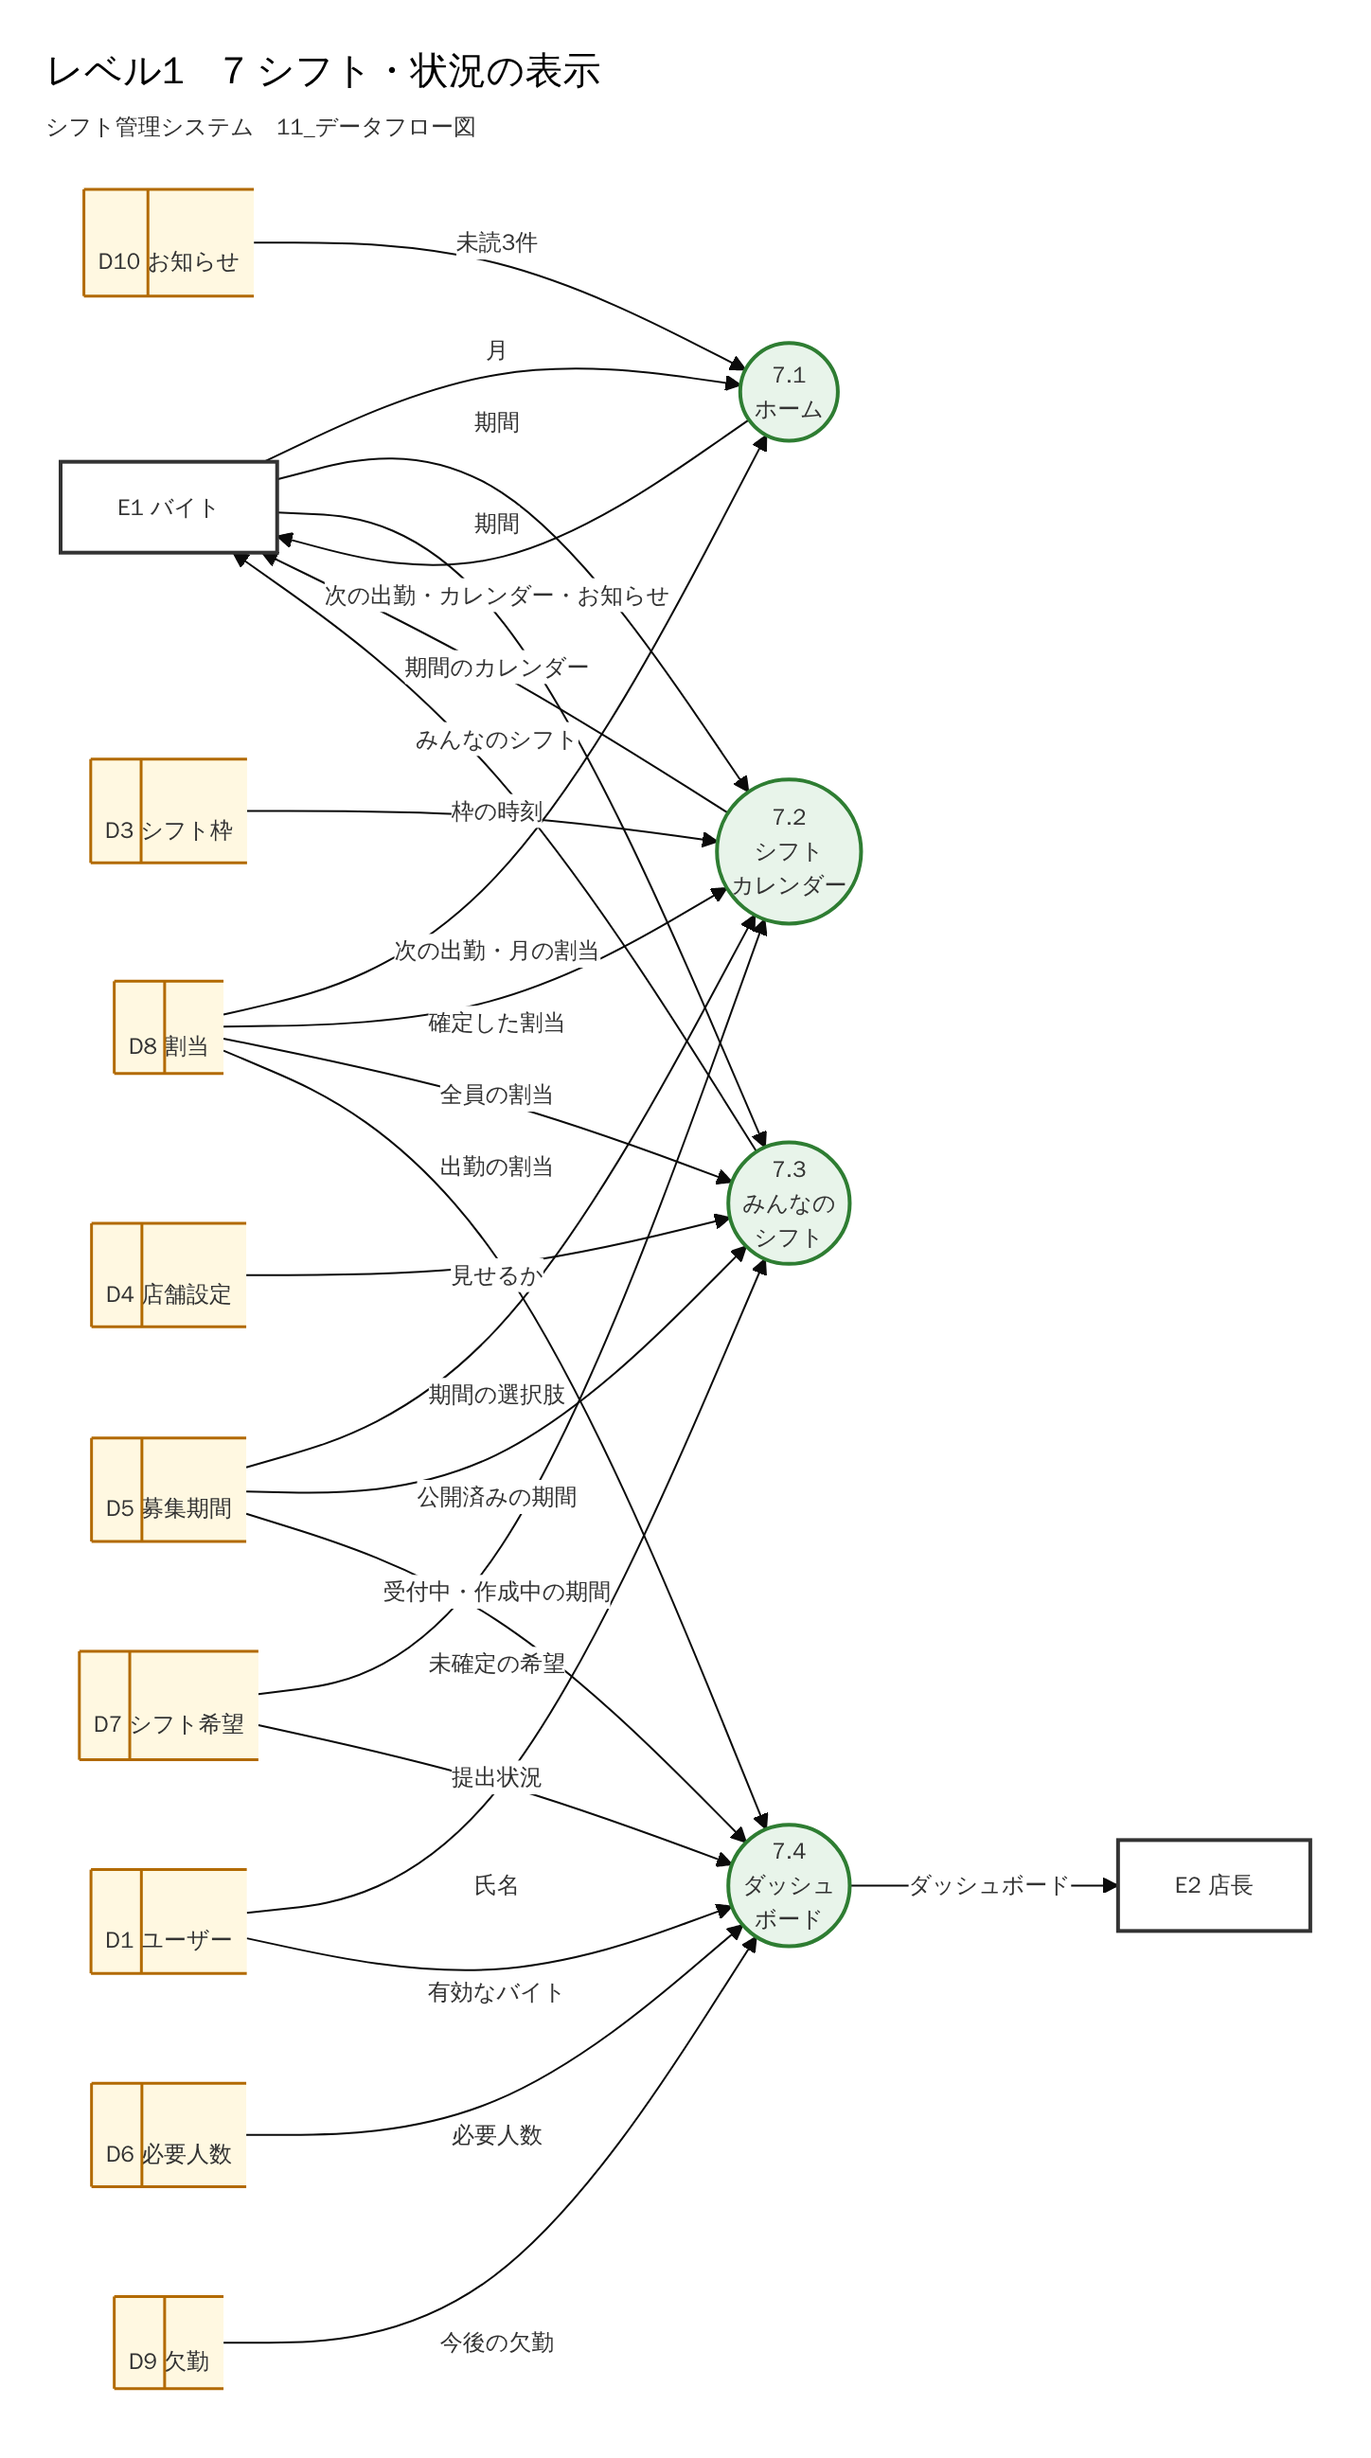
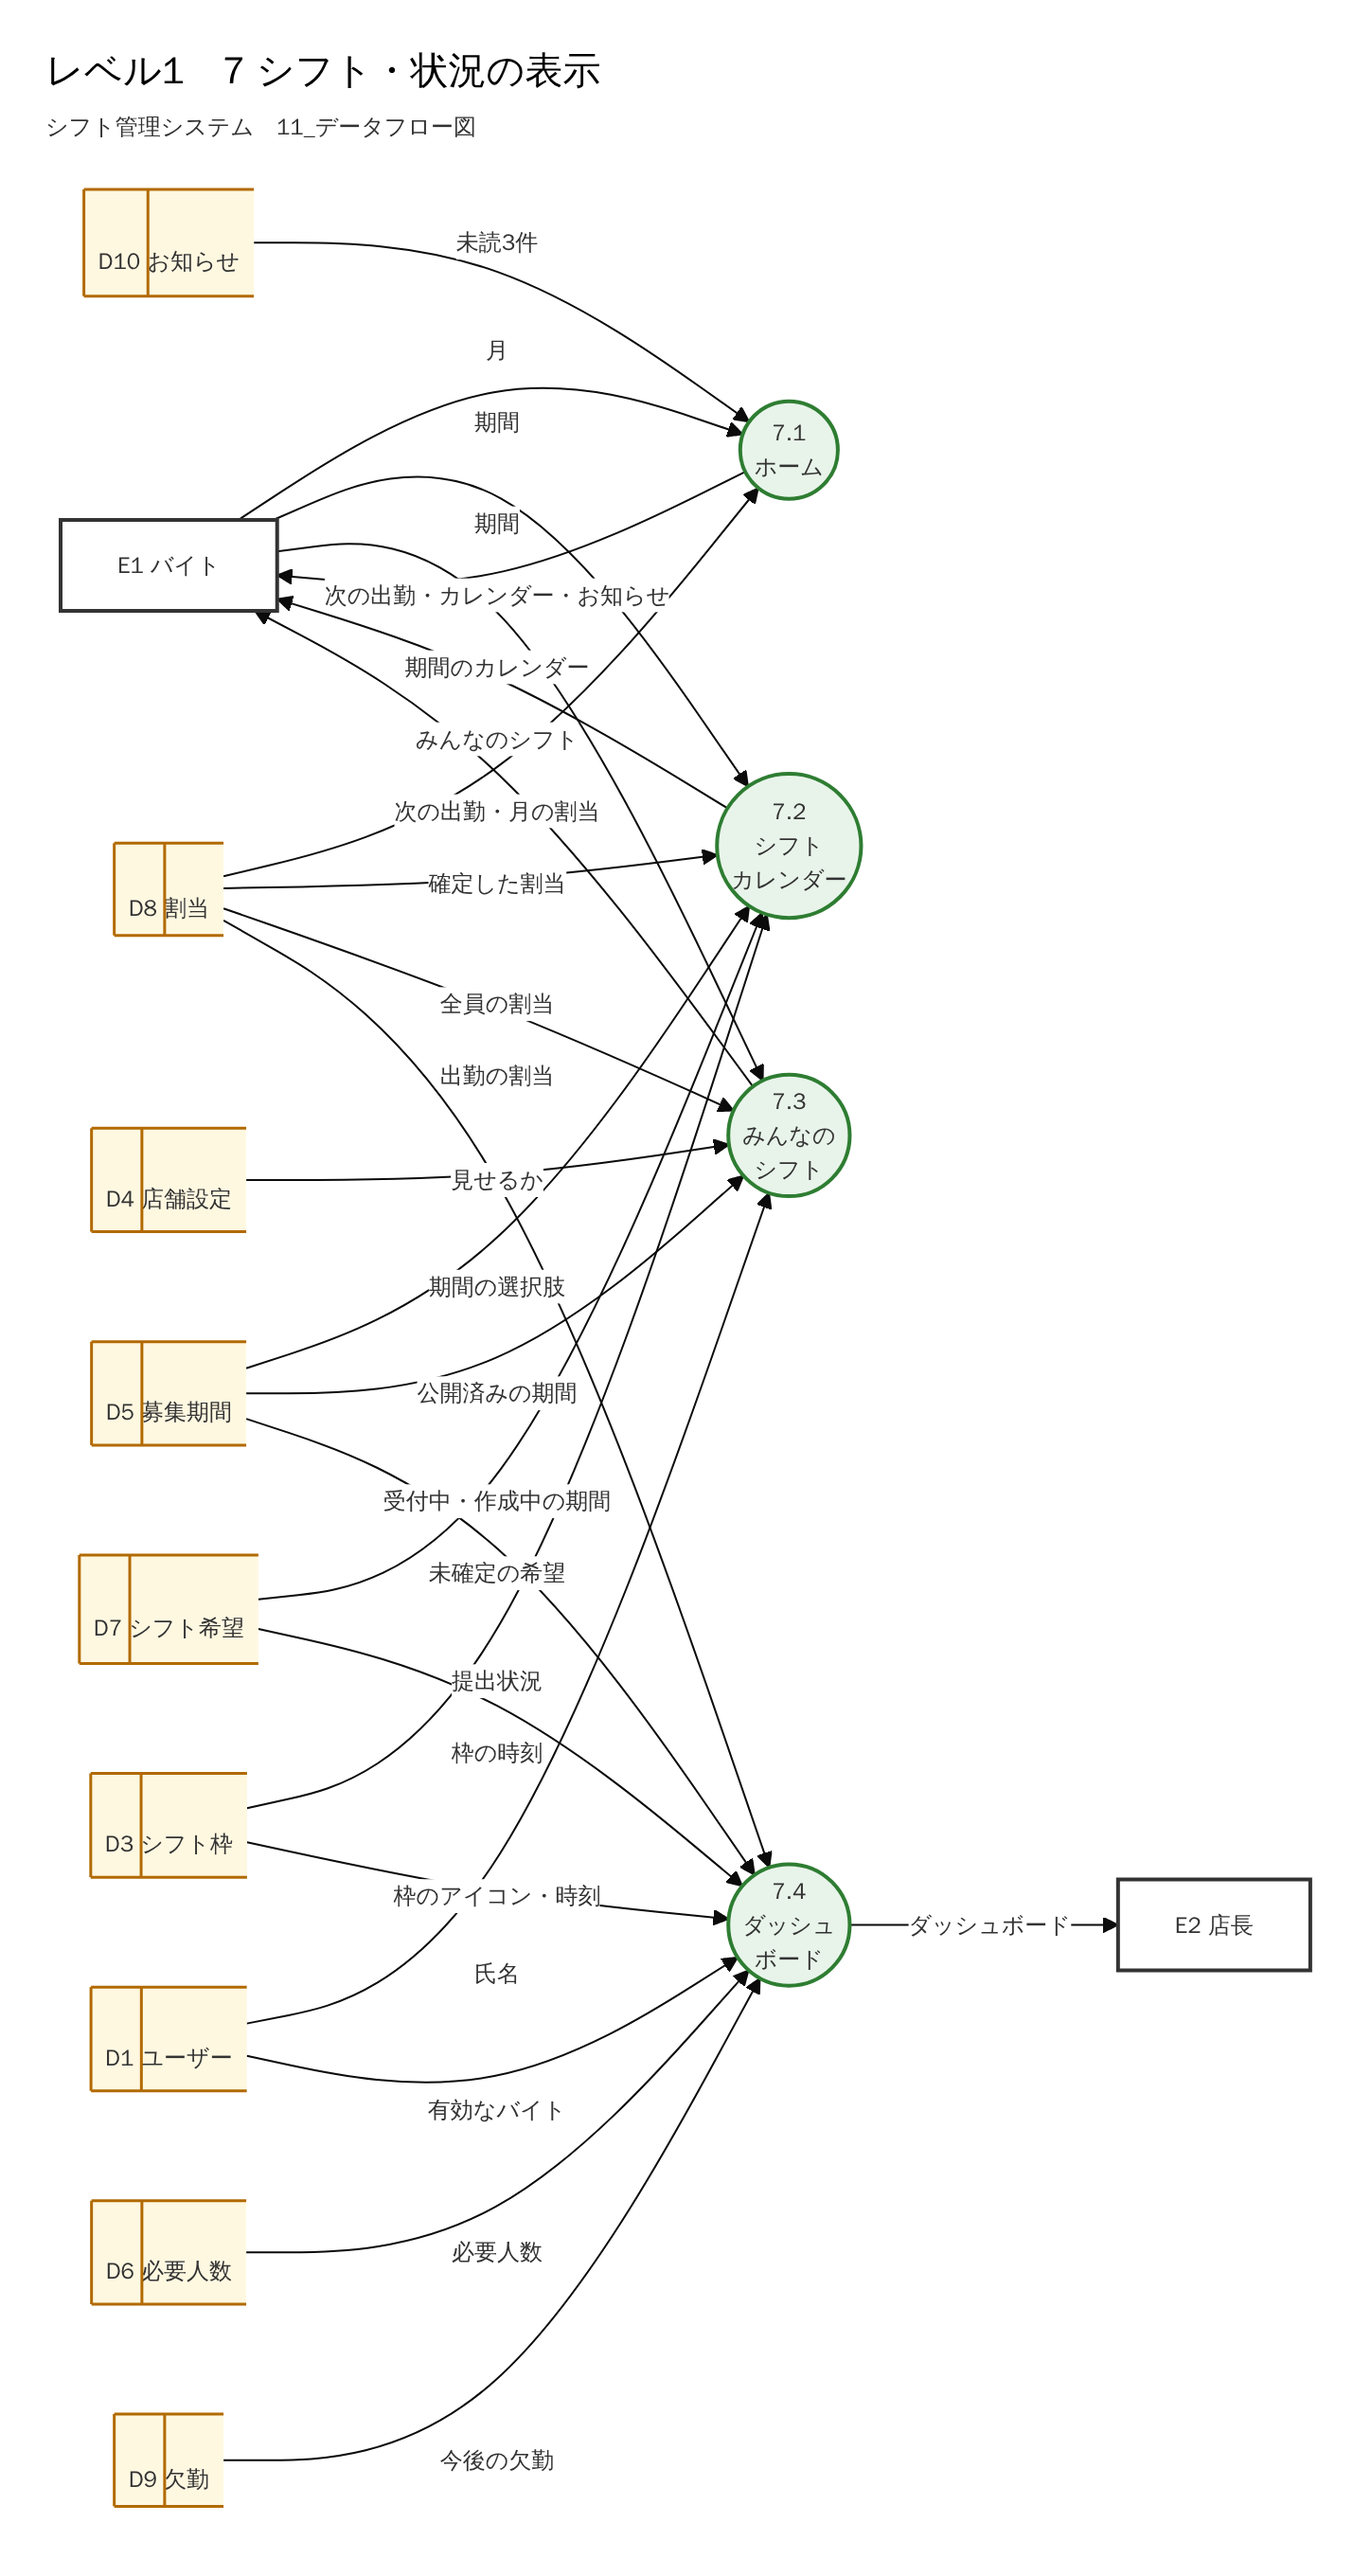
docs: データフロー図を第1.1版にする（#87 マージ反映） (#89)
5.7 と7章の「PR #87 マージ待ち」を直し、7.4 ダッシュボードに
D3 シフト枠を読む線を足した（DashboardService と照合）。

Claude-Session: https://claude.ai/code/session_01DMixyh79SL5DL7LpHnALgZ

diff --git a/docs/11_データフロー図.md b/docs/11_データフロー図.md
@@ -3,7 +3,7 @@
 | 項目 | 内容 |
 | --- | --- |
 | 文書番号 | 11 |
-| 版 | 第1.0版 |
+| 版 | 第1.1版（令和8年11月24日） |
 | 作成日 | 令和8年11月24日 |
 | 作成 | 企業課題F班（新井・栗原・川端） |
 | 対象読者 | 班員（実装・テストの担当）と、評価をする先生 |
@@ -14,6 +14,7 @@
 | 版 | 日付 | 内容 | 作成者 |
 | --- | --- | --- | --- |
 | 1.0 | 令和8年11月24日 | 初版作成（コンテキスト図、レベル0、レベル1（11プロセス）） | 新井 |
+| 1.1 | 令和8年11月24日 | PR #87（SM-01 ダッシュボード）のマージを受けて、5.7 と7章の「マージ待ち」の記述を直し、7.4 ダッシュボードに D3 シフト枠を読む線を足した | 新井 |
 
 ---
 
@@ -639,6 +640,7 @@ flowchart LR
     D5 -->|"受付中・作成中の期間"| P74
     D7 -->|"提出状況"| P74
     D1 -->|"有効なバイト"| P74
+    D3 -->|"枠のアイコン・時刻"| P74
     D6 -->|"必要人数"| P74
     D8 -->|"出勤の割当"| P74
     D9 -->|"今後の欠勤"| P74
@@ -656,7 +658,7 @@ flowchart LR
 | 7.3 | 店舗設定で見せる設定のときだけ。公開済みの期間（3か月前の1日以降）の全員の割当 | 20-SB-04 2.1 |
 | 7.4 | 未提出者、人数不足（5.2 の計算を使う）、今後の欠員、募集期間の一覧 | 20-SM-01 2.1 |
 
-7.4 は `DashboardService` で作ります（実装は PR #87、令和8年11月24日時点でマージ待ち）。
+7.4 は `DashboardService` で作ります（PR #87 で令和8年11月24日にマージ済み）。
 
 ### 5.8 プロセス8 お知らせ
 
@@ -856,5 +858,5 @@ flowchart LR
 
 | No. | 内容 | 扱い |
 | --- | --- | --- |
-| 1 | SM-01 ダッシュボード（7.4）の `DashboardService` は、まだ main にない（PR #87 がマージ待ち）。図は 20-SM-01 2.1 と 30-05 3.1 に合わせて描いた | PR #87 のマージ後に、図と実装が合っているか見直す |
+| 1 | SM-01 ダッシュボード（7.4）は、第1.0版では PR #87 のマージ前だったので 20-SM-01 2.1 と 30-05 3.1 に合わせて描いた。マージ後の `DashboardService` と照らし合わせたところ、流れは合っていたが、欠員の表示に D3 シフト枠（枠のアイコン・重なる枠）を読む線が抜けていた | 第1.1版で線を足した（対応済み） |
 | 2 | スタッフ登録（2.2）で購読トークン（D12）も作る流れは、30-05 3.2 の依存に `CalendarFeedService` があり、20-SM-03 2.2-7 にも書いてある。SB-05 を開いたとき（10.1）にも、なければ作る | 設計どおり。直すことはない |
